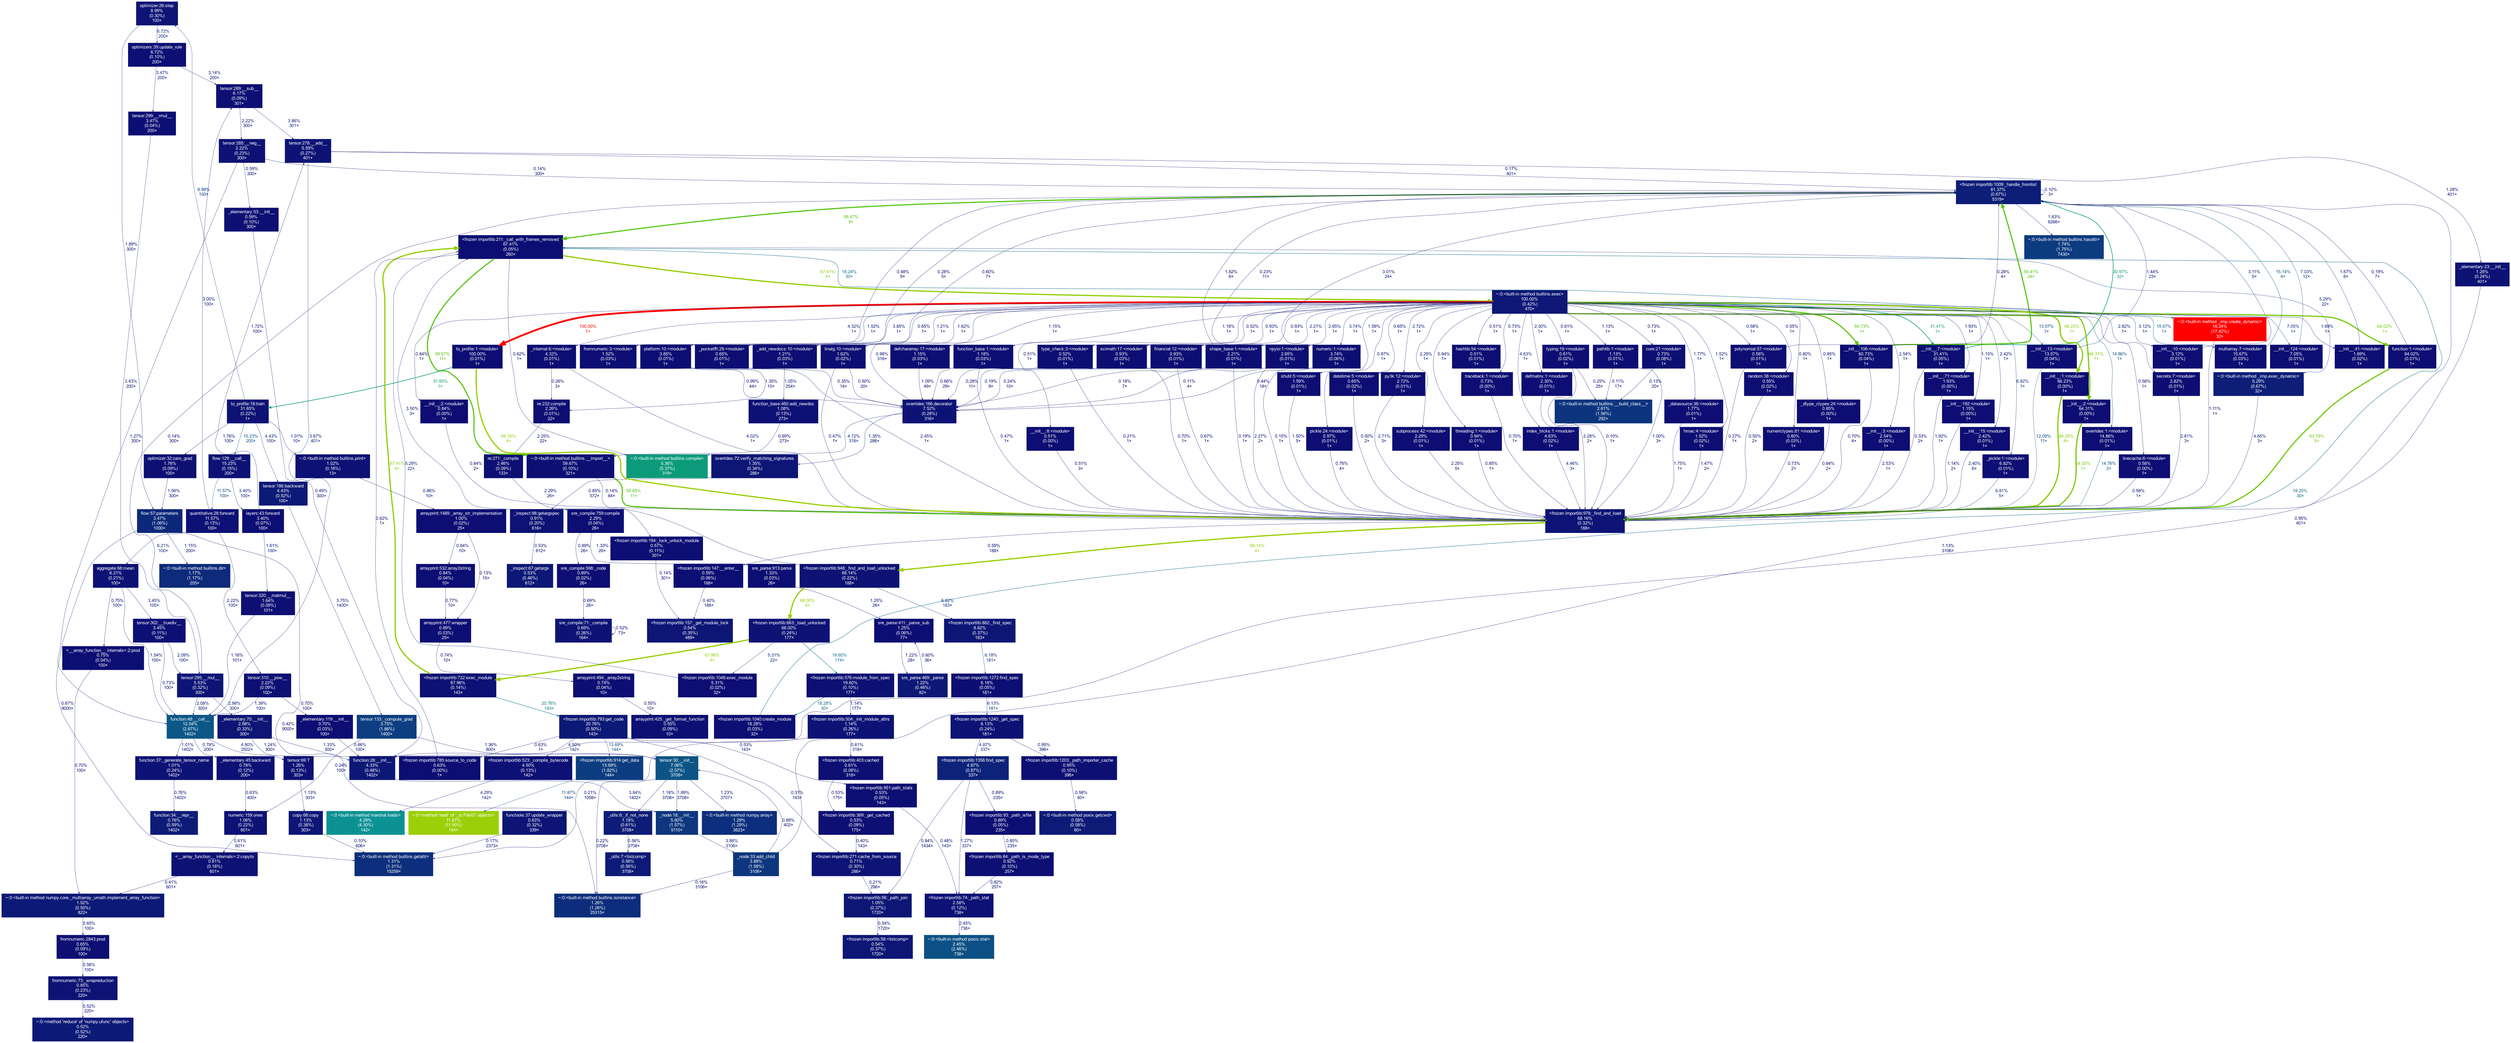
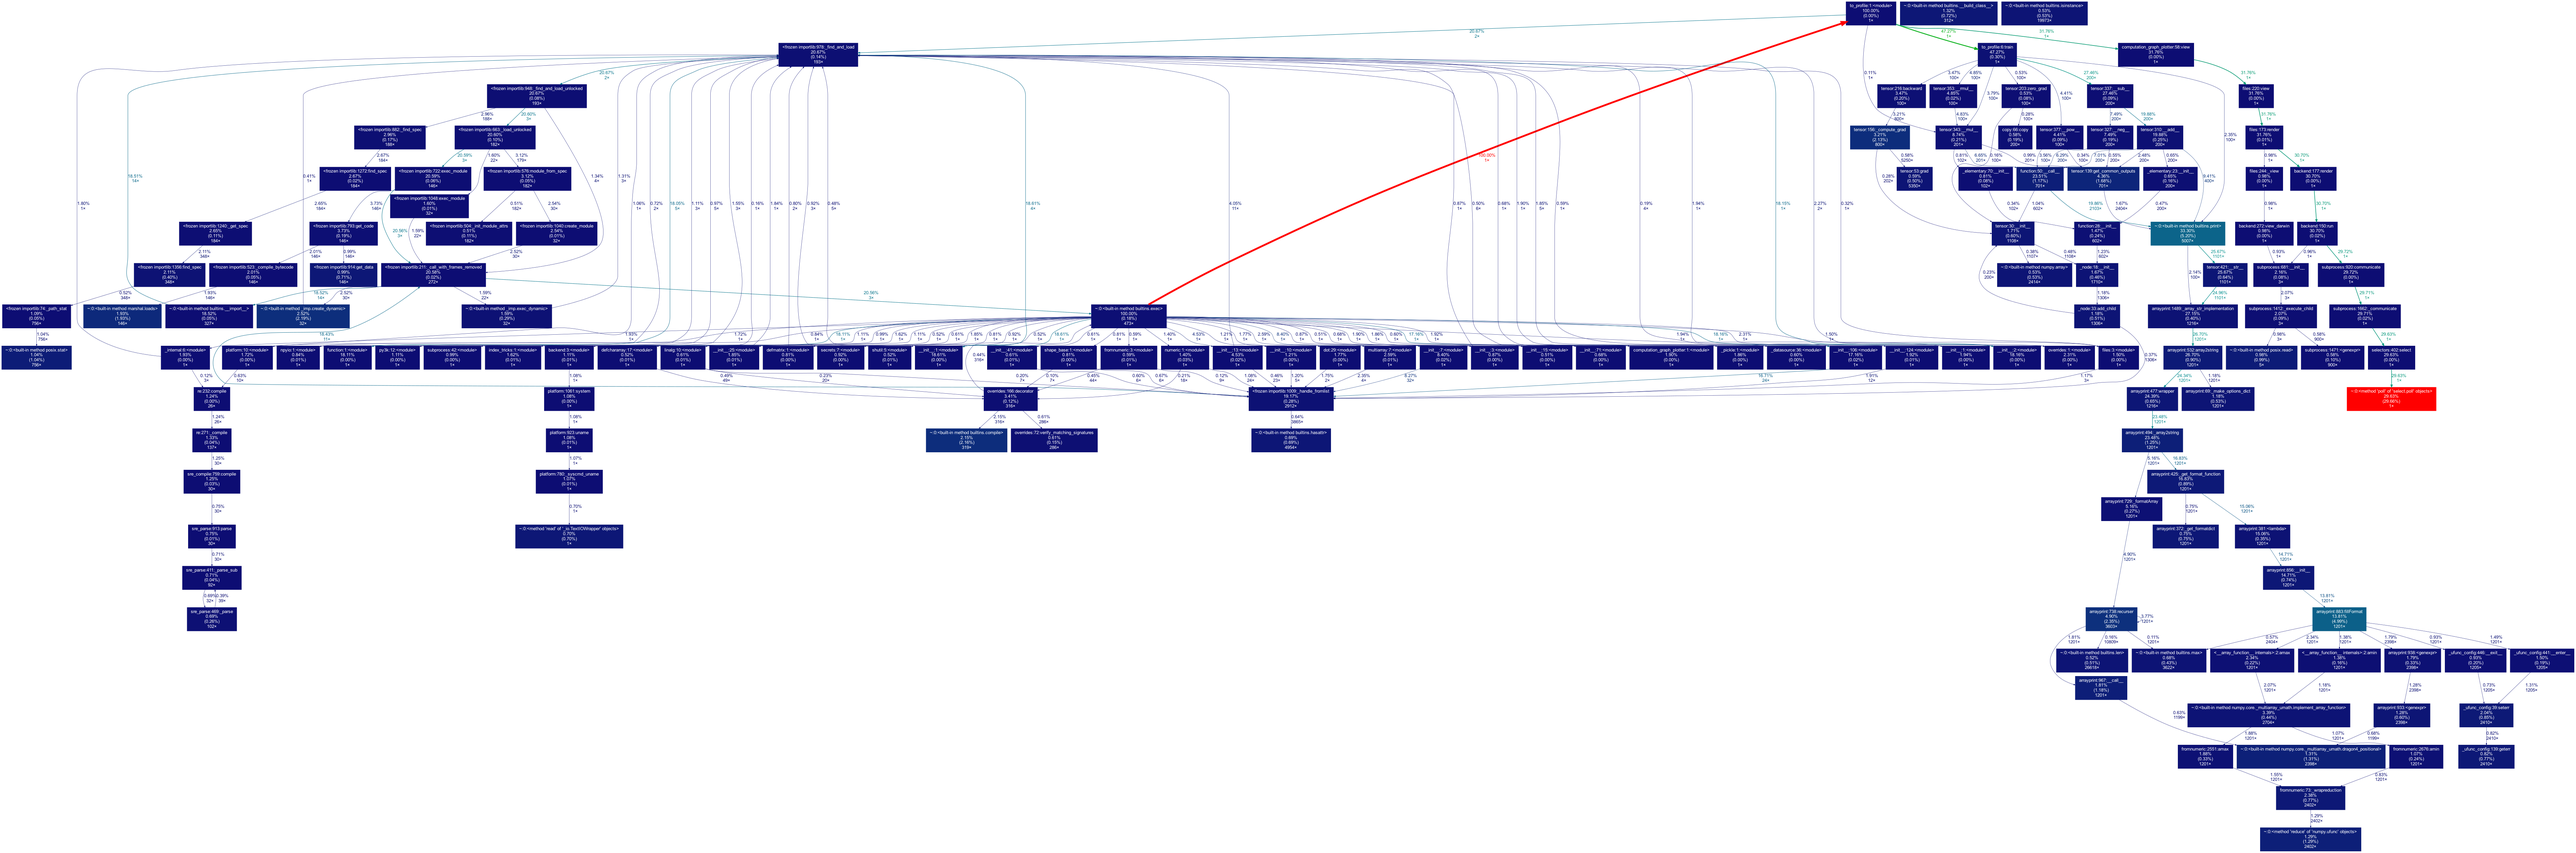
[up:solving-profiling-issues] major: nujo now has static graph were possible - automatically

diff --git a/nujo/autodiff/tensor.py b/nujo/autodiff/tensor.py
@@ -42,7 +42,7 @@ class Tensor(_Node):
 
         # (Tensor, weight) pair, used to backpropagate through the network
         # See: `Chain Rule` Wikipedia page for more info
-        self._grad_dependencies: List[Tuple['Tensor', 'Tensor']] = []
+        self.grad_dependencies: List[List['Tensor', ndarray]] = []
 
         # Gradient cache
         self._grad: 'Tensor' = None
@@ -52,15 +52,20 @@ class Tensor(_Node):
 
     @property
     def grad(self) -> 'Tensor':
-        if self._grad is None:
+        if not isinstance(self._grad, Tensor):
+            self._grad = Tensor(None, name=f'grad[{self.name}]')
+
+        if self._grad.value is None:
             self._compute_grad()
 
         return self._grad
 
     @grad.setter
     def grad(self, value: Union['Tensor', ndarray, List[Number], Number]):
-        self._grad = value if isinstance(value, Tensor) else Tensor(
-            value, name=f'grad[{self.name}]')
+        if not isinstance(self._grad, Tensor):
+            self._grad = Tensor(None, name=f'grad[{self.name}]')
+
+        self._grad.value = value.value if isinstance(value, Tensor) else value
 
     @grad.deleter
     def grad(self):
@@ -68,11 +73,12 @@ class Tensor(_Node):
 
     @property
     def T(self) -> 'Tensor':
-        if self._T is None:
-            transposed = copy(self)
-            transposed.value = self.value.T
+        if not isinstance(self._T, Tensor):
+            self._T = copy(self)
+            self._T.value = None
 
-            self._T = transposed
+        if self._T.value is None:
+            self._T.value = self.value.T
 
         return self._T
 
@@ -127,27 +133,39 @@ class Tensor(_Node):
 
     # Gradient computation
 
-    def add_grad_dependency(self, wrt: 'Tensor', weight: 'Tensor') -> None:
-        self._grad_dependencies.append((wrt, weight))
+    def add_grad_dependency(self, wrt: 'Tensor', weight: ndarray) -> None:
+        self.grad_dependencies.append([wrt, weight])
+
+    def get_common_outputs(self, *others: 'Tensor') -> Optional['Tensor']:
+        common_outputs = set([dep[0] for dep in self.grad_dependencies])
+
+        for other in others:
+            if isinstance(other, Tensor):
+                common_outputs.intersection_update(
+                    set([dep[0] for dep in other.grad_dependencies]))
+
+        return common_outputs
 
     def _compute_grad(self, _debug=False) -> None:
-        if modes.DIFF_ENABLED and self.diff and self._grad is None:
+        if modes.DIFF_ENABLED and self.diff:
+            if not isinstance(self._grad, Tensor):
+                self._grad = Tensor(None, name=f'grad[{self.name}]')
+
             if _debug:
                 print()
                 print('=' * 30)
                 print(self, end='\n\n')
                 print('Shape:', self.shape)
-                print(f'Has {len(self._grad_dependencies)} dependencies:')
-                print('Grad Dependecies:', self._grad_dependencies, end='\n\n')
+                print(f'Has {len(self.grad_dependencies)} dependencies:')
+                print('Grad Dependecies:', self.grad_dependencies, end='\n\n')
 
             # Top-parent grad
-            if len(self._grad_dependencies) == 0:
-                self._grad = Tensor(ones(self.shape),
-                                    name=f'grad[{self.name}]')
+            if len(self.grad_dependencies) == 0:
+                self._grad.value = ones(self.shape)
                 return
 
-            self._grad = Tensor(zeros(self.shape), name=f'grad[{self.name}]')
-            for z, weight in self._grad_dependencies:
+            self._grad.value = zeros(self.shape)
+            for z, weight in self.grad_dependencies:
                 if _debug:
                     print('~' * 10)
                     print('Z Grad:', z.grad)
@@ -159,15 +177,15 @@ class Tensor(_Node):
                 if z.creator.name == 'MatMul':
                     if self.id == z.creator.children[0].id:
                         # XW = Z, dX ...
-                        self._grad.value += z.grad.value @ weight.value.T
+                        self._grad.value += z.grad.value @ weight.T
 
                     else:
                         # XW = Z, dW ...
-                        self._grad.value += (z.grad.value.T @ weight.value).T
+                        self._grad.value += (z.grad.value.T @ weight).T
 
                 else:
                     self._grad.value = self._grad.value + \
-                        z.grad.value * weight.value
+                        z.grad.value * weight
 
             if _debug:
                 print('#' * 10)
@@ -179,9 +197,14 @@ class Tensor(_Node):
         # `zero_grad` is called after an iteration.
         # The value of weight tensors is updated after an iteration.
 
-        self._grad_dependencies = []
-        self._grad = None
-        self._T = None
+        if not isinstance(self._grad, Tensor):
+            self._grad = Tensor(None, name=f'grad[{self.name}]')
+        self._grad.value = None
+
+        if not isinstance(self._T, Tensor):
+            self._T = copy(self)
+            self._T.value = None
+        self._T.value = None
 
     def backward(self, _debug=False) -> None:
         ''' It uses Breadth First Search to traverse the computation graph
@@ -250,6 +273,8 @@ class Tensor(_Node):
                 pass
 
         self.value = getattr(other, 'value', other)
+        self._grad = getattr(other, '_grad', None)
+        self._T = getattr(other, '_T', None)
 
         return self
 
@@ -277,6 +302,12 @@ class Tensor(_Node):
 
     def __add__(self, other):
         from nujo.autodiff._functions._elementary import _Addition
+
+        outputs = self.get_common_outputs(other)
+        for output in outputs:
+            if isinstance(output.creator, _Addition):
+                return output.creator()
+
         return _Addition(self, other)()
 
     def __radd__(self, other):
@@ -284,6 +315,12 @@ class Tensor(_Node):
 
     def __neg__(self):
         from nujo.autodiff._functions._elementary import _Negation
+
+        outputs = self.get_common_outputs()
+        for output in outputs:
+            if isinstance(output.creator, _Negation):
+                return output.creator()
+
         return _Negation(self)()
 
     def __sub__(self, other):
@@ -294,6 +331,12 @@ class Tensor(_Node):
 
     def __mul__(self, other):
         from nujo.autodiff._functions._elementary import _Multiplication
+
+        outputs = self.get_common_outputs(other)
+        for output in outputs:
+            if isinstance(output.creator, _Multiplication):
+                return output.creator()
+
         return _Multiplication(self, other)()
 
     def __rmul__(self, other):
@@ -301,28 +344,65 @@ class Tensor(_Node):
 
     def __truediv__(self, other):
         from nujo.autodiff._functions._elementary import _Reciprocal
+
+        if isinstance(other, Tensor):
+            outputs = other.get_common_outputs()
+            for output in outputs:
+                if isinstance(output.creator, _Reciprocal):
+                    return self.__mul__(output.creator())
+
         return self.__mul__(_Reciprocal(other)())
 
     def __rtruediv__(self, other):
         from nujo.autodiff._functions._elementary import _Reciprocal
+
+        outputs = self.get_common_outputs()
+        for output in outputs:
+            if isinstance(output.creator, _Reciprocal):
+                return output.creator().__mul__(other)
+
         return _Reciprocal(self)().__mul__(other)
 
     def __pow__(self, other):
         from nujo.autodiff._functions._elementary import _Power
+
+        outputs = self.get_common_outputs(other)
+        for output in outputs:
+            if isinstance(output.creator, _Power):
+                return output.creator()
+
         return _Power(self, other)()
 
     def __rpow__(self, other):
         from nujo.autodiff._functions._elementary import _Power
+
+        outputs = other.get_common_outputs(self)
+        for output in outputs:
+            if isinstance(output.creator, _Power):
+                return output.creator()
+
         return _Power(other, self)()
 
     # More complex arithmetic operations
 
     def __matmul__(self, other):
         from nujo.autodiff._functions._elementary import _MatrixMul
+
+        outputs = self.get_common_outputs(other)
+        for output in outputs:
+            if isinstance(output.creator, _MatrixMul):
+                return output.creator()
+
         return _MatrixMul(self, other)()
 
     def __rmatmul__(self, other):
         from nujo.autodiff._functions._elementary import _MatrixMul
+
+        outputs = other.get_common_outputs(self)
+        for output in outputs:
+            if isinstance(output.creator, _MatrixMul):
+                return output.creator()
+
         return _MatrixMul(other, self)()
 
     # Representations

diff --git a/nujo/autodiff/function.py b/nujo/autodiff/function.py
@@ -30,6 +30,8 @@ class Function(_Node):
                  name='Function'):
 
         super(Function, self).__init__(*children, name=name)
+        self._reuse = True
+        self._z_placeholder: 'Tensor' = None
 
     def __repr__(self):
         return super(Function, self).__repr__() + f'#{self.id}'
@@ -54,17 +56,31 @@ class Function(_Node):
         '''
 
         z = self.forward()
-        if not isinstance(z, Tensor):
-            # Register in the computation graph only if in diff mode
-            z = Tensor(z,
-                       diff=any([x.diff for x in self.children]),
-                       creator=self if modes.DIFF_ENABLED else None,
-                       name=self._generate_tensor_name())
+        if self._z_placeholder is None:
+            # Register in the computation (init the placeholder)
+            self._z_placeholder = Tensor(
+                z,
+                diff=[x.diff for x in self.children],
+                creator=self if modes.DIFF_ENABLED else None,
+                name=self._generate_tensor_name())
 
-        if modes.DIFF_ENABLED and z.diff:
+            self._reuse = False
+
+        else:
+            self._z_placeholder.value = z
+            self._reuse = True
+
+        if modes.DIFF_ENABLED and self._z_placeholder.diff:
             # Compute gradient for this tensor
             for tensor, derivative in zip(self.children, self.backward()):
-                tensor.add_grad_dependency(
-                    z, Tensor(derivative, name=f'weight[{z.name}]'))
+                if self._reuse:
+                    idx = next(i
+                               for i, v in enumerate(tensor.grad_dependencies)
+                               if v[0] is self._z_placeholder)
 
-        return z
+                    tensor.grad_dependencies[idx][0].value = z
+                    tensor.grad_dependencies[idx][1] = derivative
+                else:
+                    tensor.add_grad_dependency(self._z_placeholder, derivative)
+
+        return self._z_placeholder

diff --git a/to_profile.py b/to_profile.py
@@ -1,48 +1,41 @@
 import nujo as nj
-import nujo.nn as nn
-import nujo.objective as obj
-import nujo.optim as optim
-
-# Define the net and optimizer
-net = nn.Linear(3, 1)
-print('Defined net:', net)
-
-loss_fn = obj.L2Loss()
-print('Loss:', loss_fn)
-
-optimizer = optim.SGD(net.parameters)
-print('Optimizer:', optimizer)
+from nujo.utils.viz import ComputationGraphPlotter
 
 
 # Training loop
-def train(net, x, y, num_epochs):
+def train(param, x, y, num_epochs):
     for epoch in range(1, num_epochs + 1):
 
         # Forward
-        output = net(x)
+        output = param * x
         # Compute Loss
-        loss = loss_fn(output, y)
+        loss = (output - y)**2
 
         # Print the loss every 10th epoch for monitoring
-        if epoch % 10 == 0:
-            print('EPOCH:', epoch, '| LOSS: ', loss.value)
+        print('EPOCH:', epoch, '| LOSS: ', loss.value)
 
         # Backprop
         loss.backward()
 
         # Update
-        optimizer.step()
+        with nj.no_diff():
+            param <<= param - 0.01 * param.grad
 
         # Zero grad
-        optimizer.zero_grad()
+        param.zero_grad()
 
     return loss
 
 
 if __name__ == '__main__':
     # Create example data
-    x = nj.rand(30, 3, name='X_train')
-    y = nj.Tensor(x @ [[2], [3], [4]] - 10, name='y_train')
+    x = nj.rand(1, 1, name='X_train')
+    y = nj.Tensor(x * nj.rand(1, 1), name='y_train')
+    w = nj.randn(1, 1, diff=True, name='weight')
 
     # Train
-    train(net, x, y, 100)
+    loss = train(w, x, y, 100)
+
+    # Visualize the Neural Network as a computation graph
+    cg_plot = ComputationGraphPlotter(filename='graph').create(loss)
+    cg_plot.view()
